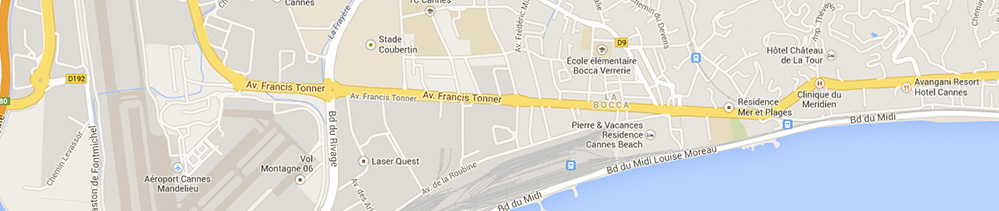
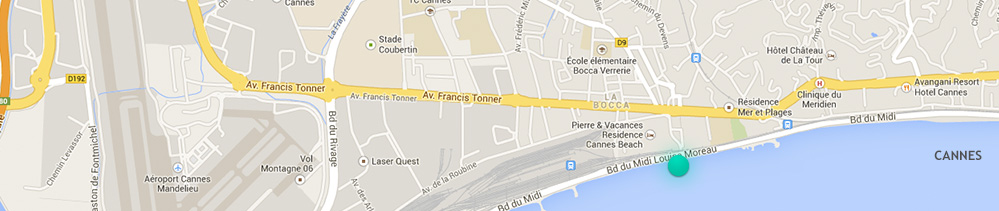
done

Changed region(s): [[0.6517, 0.6825, 0.7137, 0.8815], [0.9309, 0.7109, 0.993, 0.7678]]

diff --git a/www/index.html b/www/index.html
@@ -9,7 +9,8 @@
 </head>
 
 <body>
-    <header>
+    <div class="page">
+        <header>
         <div class="header-logo">
             <h1>soundesign'studio</h1>
             <img src="images/logo.png" alt="soundesign'studio">
@@ -54,8 +55,8 @@
                 musique, le concert, le développement de jeux vidéo ou la publicité.
             </p>
             <p>
-                Le design sonore implique généralement la manipulation d'objets musicaux ou sonores. Un Designer sonore
-                (en anglais, sound designer) est une personne qui pratique l'art de la conception sonore.
+                Le design sonore implique généralement la manipulation d'objets musicaux ou sonores.<br>
+                Un Designer sonore (en anglais, sound designer) est une personne qui pratique l'art de la conception sonore.
             </p>
             <p>
                 — Wikipedia
@@ -104,15 +105,33 @@
 
         <!-- bloc contact -->
         <div class="contact">
-
+            <div class="contact-green-block">
+                <p>
+                    Nous avons certainement des solutions à vos exigences.<br>
+                    <a href="#">Contactez-nous…</a> 
+                </p>
+                
+            </div>
+            <div class="map">
+                <img src="images/carte.jpg" alt="">
+            </div>
+            <div class="contact-dark-block">
+                soundesign’studio<br>
+                12 rue Mozart- 06000 Cannes  -  +33 4 00 00 00 00
+            </div>
         </div>
 
     </div>
 
     <!-- footer -->
     <footer>
+        <p>
+            2014, exercice  par Olivier Pinna. Images licence CC (cf groupe de calque «licence». Textes Wikipedia.
+        </p>
 
     </footer>
+    </div>
+    
 </body>
 
 </html>

diff --git a/www/css/style.css b/www/css/style.css
@@ -2,10 +2,18 @@ body {
     font-family: 'Trebuchet MS', 'Lucida Sans Unicode', 'Lucida Grande', 'Lucida Sans', Arial, sans-serif;
 }
 
+.page {
+    display: flex;
+    flex-direction: column;
+    text-align: center;
+
+}
+
 header {
     background: white;
     display: flex;
     flex-flow: column nowrap;
+    margin-bottom: 1em;
 }
 
 .header-logo {
@@ -33,11 +41,10 @@ nav a {
 }
 
 .main {
-    margin: auto;
-    text-align: center;
     display: flex;
     flex-direction: column;
     align-items: center;
+    gap: 2rem;
 }
 
 .image-band {
@@ -61,11 +68,12 @@ section {
     width: 400px;
     font-size: 16px;
     color: #605e5e;
-    font-weight: 600;
+    font-weight: bold;
 }
 
 .subtitle {
     font-size: 20px;
+    font-weight: bold;
     color: #605e5e;
 }
 
@@ -76,4 +84,49 @@ h1 {
 h2 {
     font-size: 20px;
     color: black;
+    margin-bottom: 1em;
+}
+
+.contact {
+    color: white;
+    display: flex;
+    flex-direction: column;
+    width: 100%;
+    font-size: 17px;
+    
+}
+
+.contact a {
+    color: white;
+}
+
+.contact-green-block {
+    background: #00c492;
+    padding-top: 1em;
+    padding-bottom: 1em;
+}
+
+.contact-dark-block {
+    background: #2d343e;
+    color: #c4cbd4;
+    padding-top: 1.5em;
+    padding-bottom: 1.5em;
+}
+
+.map {
+    display: flex;
+    flex-direction: row;
+    justify-content: center;
+    background: #2d343e;
+}
+
+.map img {
+    flex: 0;
+}
+
+footer {
+    background: #191a1e;
+    color: #4f4f4f;
+    font-size: 13px;
+    font-weight: bold;
 }
